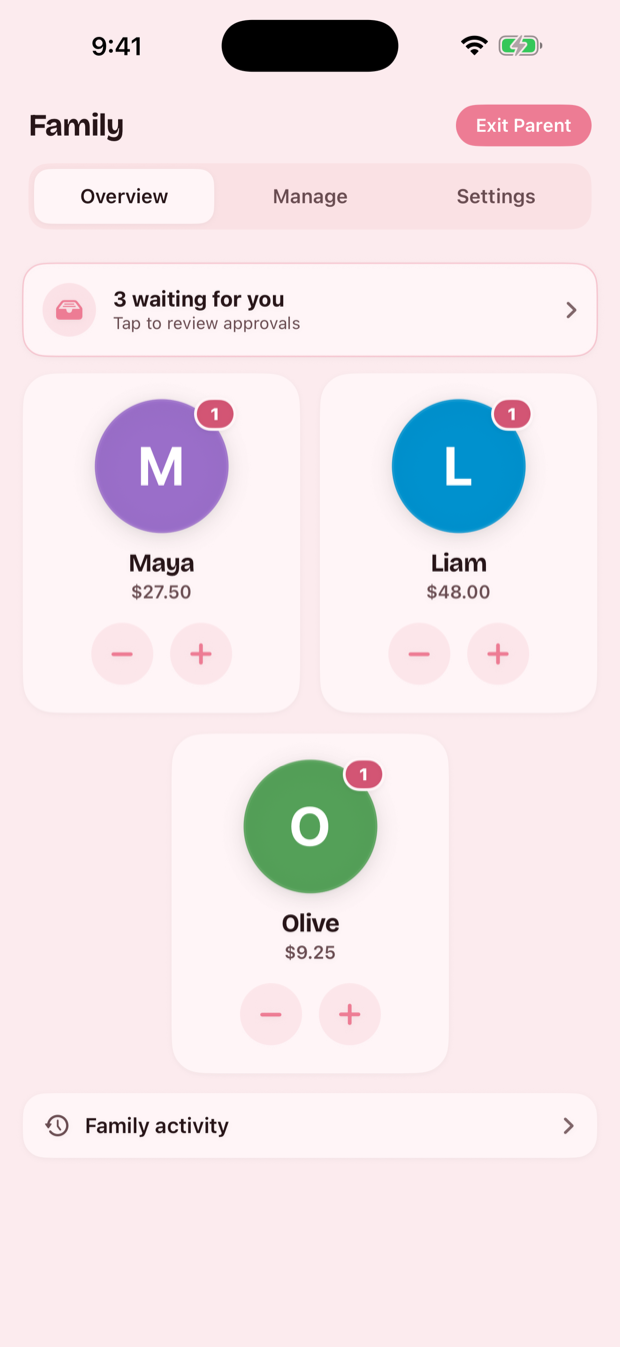
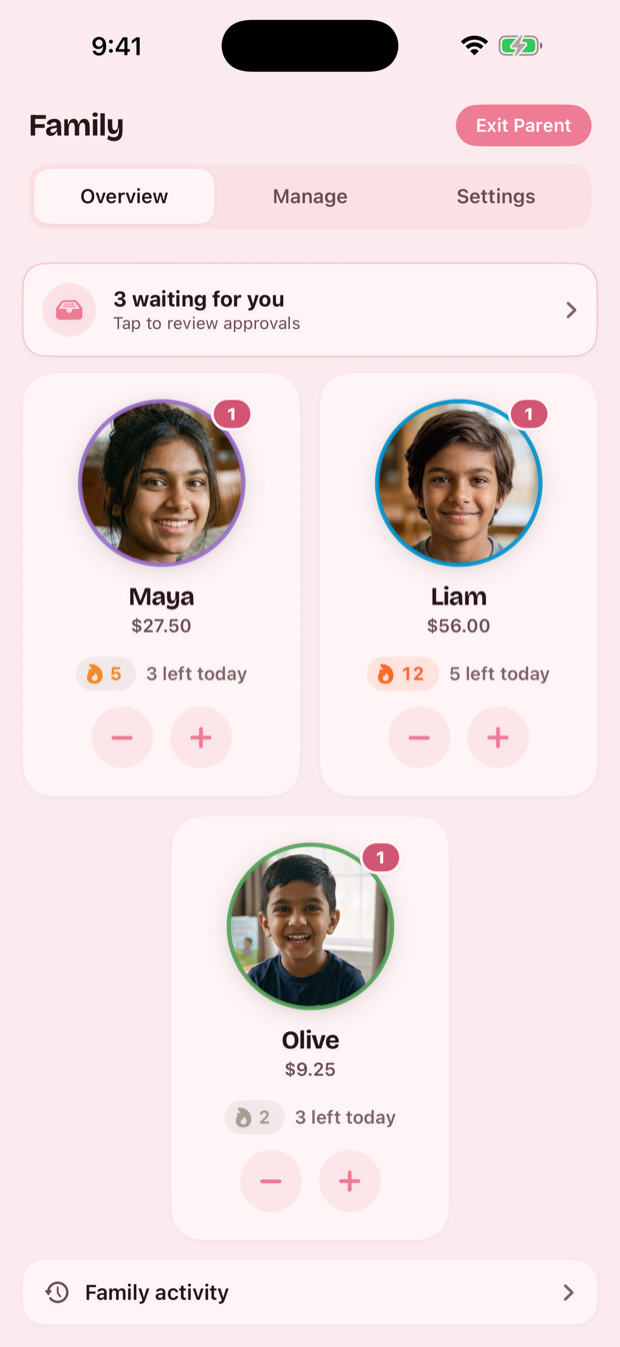
Use the App Store captures, which have faces in them
Every screen on the site was showing the initials fallback rather than
the photo a family actually sets. The ASC captures have photos, so all
four shots and all three detail crops come from those now.

The approvals detail changes with it. It used to be a crop of Waiting for
you on one child's page; it is now the To review sheet, which is what the
screen is called and which shows the queue as a parent meets it — three
children, and a spending request alongside the chores. The copy follows
the screen, and picks up that kids can ask to spend, which the site had
never mentioned.

diff --git a/index.html b/index.html
@@ -168,16 +168,16 @@
 
   <div class="shots">
     <figure>
-      <img src="assets/shot-kid.png" alt="A child's screen in Pig Pal showing a $27.50 balance, a savings goal at 69%, and today's chores.">
+      <img src="assets/shot-kid.png" alt="A child's screen in Pig Pal: Amara, with her photo, a $27.50 balance, a savings goal at 69 percent, and today's chores.">
       <figcaption>What a kid sees: their money, their streak, today's chores.</figcaption>
     </figure>
     <figure>
-      <img src="assets/shot-parent.png" alt="The parent overview in Pig Pal showing three children with balances and quick plus and minus buttons.">
+      <img src="assets/shot-parent.png" alt="The parent overview in Pig Pal: Maya, Liam and Olive with their photos and balances, three approvals waiting, and quick plus and minus buttons.">
       <figcaption>What a parent sees: everyone at a glance, approvals waiting.</figcaption>
     </figure>
     <figure class="wide">
       <img src="assets/shot-gate-ipad.png" width="1240" height="930"
-        alt="Pig Pal on an iPad held landscape, asking Who's here? with a round tile for Maya, Liam and Olive, and a locked Parent button below.">
+        alt="Pig Pal on an iPad held landscape, asking Who's here? with a photo tile for Jun, Mina, Kai, Ren and Aiko, and a locked Parent button below.">
       <figcaption>On the family iPad, everyone taps their own face.</figcaption>
     </figure>
   </div>
@@ -214,20 +214,20 @@
         <p>Every chore carries what it pays and how often it comes round. Tick one off and it's
           done — unless it's marked <em>approval</em>, which holds it until a parent looks.</p>
         <img src="assets/detail-chores.png" width="1234" height="579"
-          alt="A child's chore list in Pig Pal: Clear dinner dishes $2.00 daily, Finish homework $2.00 daily needing approval, Tidy whole room $4.00 weekly needing approval, each with a circle to tick.">
+          alt="A child's chore list in Pig Pal: Clear dinner dishes $2.00 daily, and Finish homework $2.00 daily needing approval, each with a circle to tick.">
       </div>
       <div class="detail">
         <h3>Nothing moves until you say so</h3>
-        <p>Ticked chores land in <em>Waiting for you</em> on the parent's phone. One tap pays it,
-          the other sends it back. Allowance is the one exception — pick an amount and a day and
-          it arrives on its own.</p>
-        <img src="assets/detail-approve.png" width="1234" height="351"
-          alt="The parent approval queue in Pig Pal, headed Waiting for you: Make bed, $1.00, daily, with a cross and a tick button.">
+        <p>Ticked chores — and anything a kid wants to spend on — land in <em>To review</em> on a
+          parent's phone. One tap pays it, the other sends it back. Allowance is the one
+          exception: pick an amount and a day and it arrives on its own.</p>
+        <img src="assets/detail-approve.png" width="1285" height="1202"
+          alt="The To review queue in Pig Pal: Make bed $1.00 daily for Maya, a $4.00 sticker book Liam wants to buy, and Finish homework $2.00 daily for Olive, each with a cross and a tick button.">
       </div>
     </div>
 
     <div class="showcase">
-      <img src="assets/shot-rewards.png" alt="The rewards screen in Pig Pal. A day at Six Flags shows 19 of 60 chores done between everyone. Pizza and a film tracks Maya, Liam and Olive separately. Choose Friday dinner is earned.">
+      <img src="assets/shot-rewards.png" alt="The rewards screen in Pig Pal. A day at Six Flags shows 16 of 60 chores done between everyone. Pizza and a film tracks Finn and Wren separately, both finished. Choose Friday dinner is earned.">
       <div>
         <h3>Not everything has a price</h3>
         <p>Some things shouldn't come out of pocket money. Set a reward and the number of
